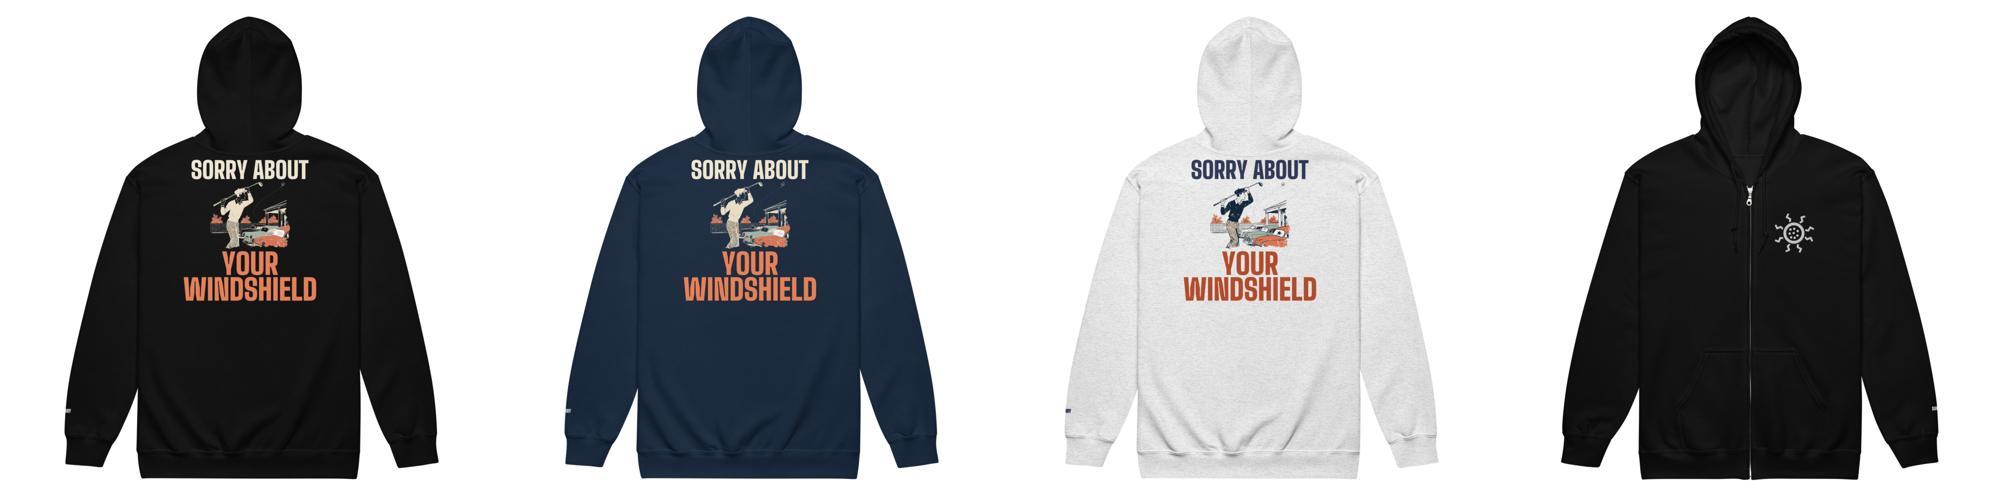
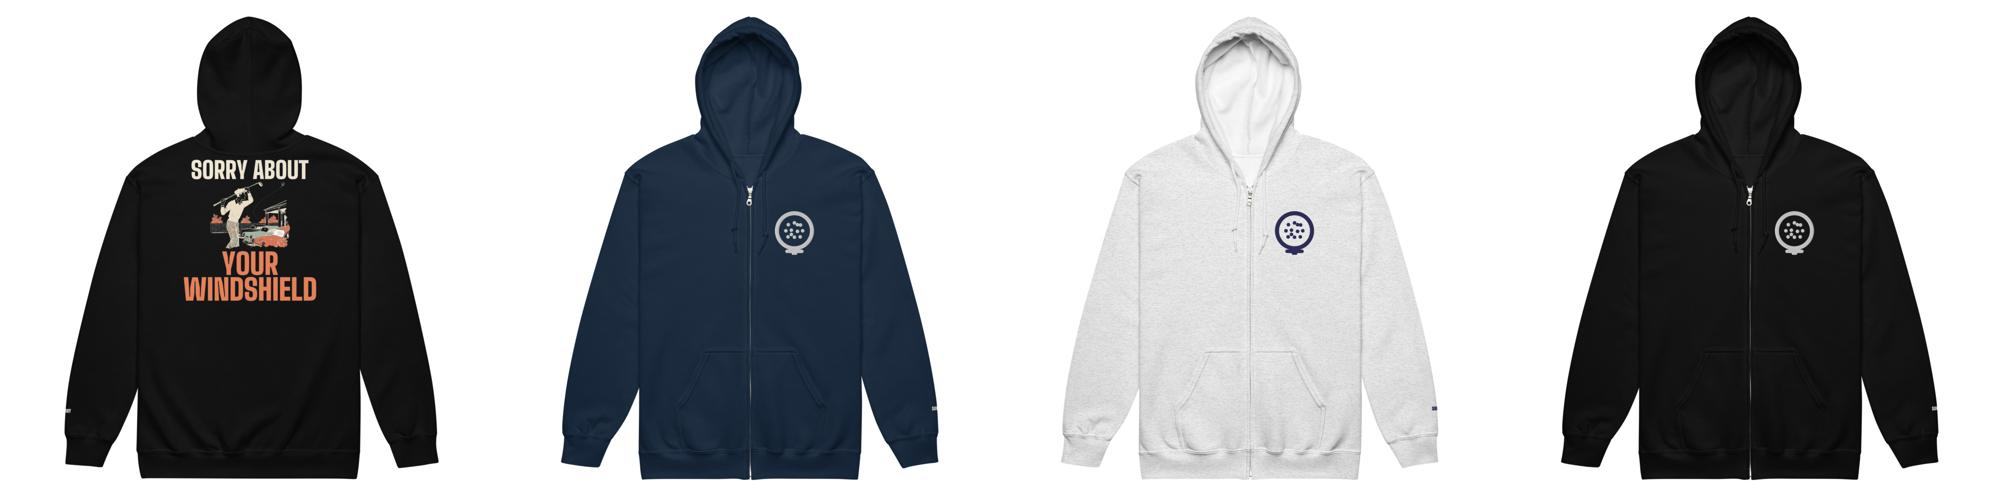
[C] review 906 golf windshield zip REDO: chest mark is a ball on a tee (7t)

diff --git a/docs/pipeline/906-zip-golf-sorry-about-your-windshield.md b/docs/pipeline/906-zip-golf-sorry-about-your-windshield.md
@@ -1,4 +1,4 @@
-status: REDO
+status: REVIEW
 shopify: gid://shopify/Product/15371977457968
 cover: fal-swap
 lane: C
@@ -35,3 +35,4 @@ push: zip
 - 2026-10-21 11:55 UTC director: brief written, READY (zip twin, lane C, push: zip; $0 fal; R11.12 unmeasured-phrase waiver: keyword-gap.py 2026-10-21 has no volume for "funny golf zip up hoodie"; registry 1058, 1059 claimed).
 - 2026-10-21 12:04 UTC builder [C]: NEW zip twin built to REVIEW (DRAFT gid://shopify/Product/15371977457968, productSet DRAFT, category Hoodies, 18 variants Black/Navy/Ash x S-3XL at $57.99, no compare-at, Printful sync product 483656903). Twin check (R6.2): the source print (unisex-golf-sorry-about-your-windshield-hoodie, 3301 x 3288) is a NAVY-ink print for light blanks (Sand/Ash only): SORRY ABOUT in a dark serif above and YOUR WINDSHIELD below, with clean row gaps either side of the golfer-and-cars art (rows 385-2963 kept, nothing touching); both lines were cropped away and re-set. Ash keeps the original navy-ink art; for Black/Navy every navy-ink pixel (sweater, fence, outlines, windshield star) was recolored to cream so no dark ink is printed on a dark blank, the orange, sage and grey fills unchanged. Re-set in Big Shoulders Display 900 (a face not among the last five lane C builds). Print 3000 x 3178: 7h headline SORRY ABOUT 2633 px / punch YOUR 1264 px and WINDSHIELD 2979 px (widest punch line 113% of the headline); 7k type 1556 of 3178 px = 49.0%; 7l subject 1800 of 3000 px = 60.0%. Ash dark file 1091076947: navy headline, rust punch, cream keyline; light file 1091077033: cream headline, orange punch, dark keyline; no cream or white fill on Ash. Chest icon DRAWN BY HAND IN PIL (a golf ball ringed by short crack lines) because fal is out of balance, one thread (white on dark blanks, #333366 on Ash), 3.50 x 3.50 in (area 4 x 4 in), thinnest stroke 3.89 mm; wrist SORRY in Anton 0.35 in caps, 0.93 in wide. Printful 18/18 verified from GET /sync/products (scripts/c-verify.py): Ash back 1091076947 / chest 1091076559 / wrist 1091076855; Black and Navy back 1091077033 / chest 1091076497 / wrist 1091076530. Photos on the DRAFT: Black back, Navy back, Ash back, Black front, Navy front, Ash front (variants linked to their color's front). Keyword map: primary 'funny golf zip up hoodie' recorded under products (unmeasured, R11.12 waiver). No cover (fal empty; cover: fal-swap); registry row ? stays claimed. Audit-local (DRAFT): PASS with 1 warn (no lifestyle cover).
 - 2026-10-21 12:45 UTC director: REDO. 1. R5.3.4 (every element reads instantly): the chest mark, a golf ball ringed by short wavy crack lines, reads as a sun or a virus at phone size on the Black mockup, not a golf ball and a cracked windshield. Redraw it so it names the joke: a golf ball sitting in a spider-web windshield crack (straight radiating cracks plus one or two rings, no wavy rays, no dots at the ends), or simply a ball on a tee. Re-sync the chest file on all 18 variants, log the new file ids, remake the sheet. 2. Back print, line and copy pass; copy only changes if it names the chest mark. $0 fix.
+- 2026-10-21 13:03 UTC builder [C]: REDO done, REVIEW. Director REDO (builder 7t, the cracked-ball chest mark read as a sun or a virus): the chest icon is now a plain golf ball with dimples sitting on a tee (the director's second option), 3.50 x 3.91 in. Title, SEO, Story, bullet, chest FAQ and care FAQ now name 'a small golf ball on a tee' instead of crack lines. The back print, line and the rest of the copy are unchanged. Printful 18/18 verified from GET /sync/products (scripts/c-verify.py): Ash back 1091097306 / chest 1091097195 / wrist 1091097255; Black and Navy back 1091097351 / chest 1091097072 / wrist 1091097132; chest 3.50 x 3.91 in (area 4 x 4 in), thinnest stroke 7.79 mm. Photos on the DRAFT swapped in place with the new mockups. $0 fal.

diff --git a/docs/intake-log.md b/docs/intake-log.md
@@ -37,6 +37,7 @@ RUNNING lane E since 2026-10-21 12:48 UTC
 2026-10-21 08:47 UTC — [H] Helper run: Telegram inbox empty (0 updates, nothing to log). Audit: 0 scripted ERRORs, 123 WARN (polish, left as is); cohesion-audit.md committed. Fixed a missing esbuild by running npm ci (the audit could not run without it). Category check: 0 products without a Shopify category. Freshness: womens-chihuahua-cold-since-birth-zip-hoodie, mens-papa-has-a-spot-wont-say-where-camo-hoodie, mens-catfish-caught-something-ugly-kept-it-anyway-camo-hoodie all 200. Stuck work: none (lane B lock 07:28, newest BUILDING #839 at 08:03). Daily summary not due (before 12:00 UTC). Lock released.
 2026-10-21 08:35 UTC — [E] Builder run end: #822 AOP pink camo zip built to REVIEW. fal wallet exhausted again (storage 403), so every other lane E item (all new art: #723 #745 #748 #749 #751 #752 #827 #836; #851 PARKED, #852-#858 gated on it) waits for a top-up. Lock released.
 RUNNING lane C since 2026-10-21 08:27 UTC
+2026-10-21 13:03 UTC — [C] Builder run: #906 Golf Sorry About Your Windshield zip twin REDO done (chest mark is now a golf ball on a tee per 7t, copy follows), 18/18 re-synced, REVIEW. fal $0.
 2026-10-21 12:57 UTC — [C] Builder run: #910 Octopus Eight Arms, Zero Hugs zip twin REDO done (chest mark redrawn as a clear octopus per 7t), 18/18 re-synced, REVIEW. fal $0.
 2026-10-21 12:52 UTC — [C] Builder run: #915 Retro Loose Goose zip twin (new DRAFT, Black/Navy/Ash, $57.99, Fraunces 900 lettering, hand-drawn strutting-goose chest + HONK cuff), 18/18, REVIEW. fal $0.
 2026-10-21 12:51 UTC — [C] Builder run: #911 Golden Retriever I Brought You a Sock zip twin (new DRAFT, Black/Navy/Ash, $57.99, Bevan lettering, hand-drawn retriever-and-sock chest + SOCK cuff), 18/18, REVIEW. fal $0.
